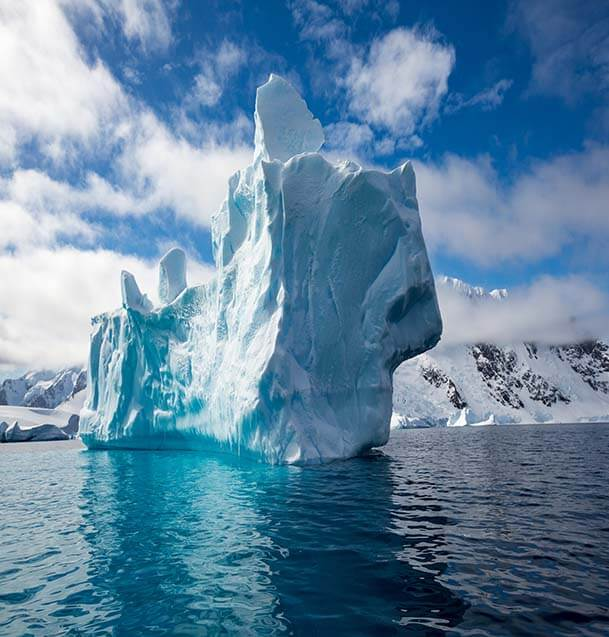
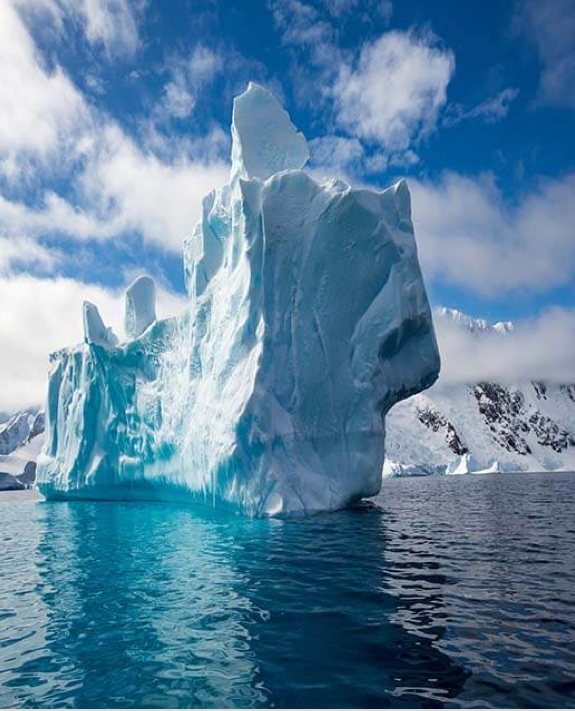
Tried to add media

diff --git a/deploy/css/styles.css b/deploy/css/styles.css
@@ -370,8 +370,7 @@ header {
   color: #00487C;
   text-align: left; }
   header img {
-    width: 1025px;
-    height: 679px; }
+    width: 100%; }
 
 /* =============
     Footer
@@ -388,18 +387,55 @@ footer {
 /* =============
     Section 1
 ============= */
-#section-1 img {
-  width: 491px;
-  height: 737px; }
-
-#section-1 > section {
-  color: #000;
-  text-align: right; }
-  #section-1 > section > hr {
-    color: #007ADF; }
-
-#section-1 > hr {
-  color: #007ADF; }
+#section-1 {
+  display: grid;
+  grid-template-columns: 10px auto 10px;
+  grid-template-rows: 25% 100px auto;
+  grid-template-areas: ". section-2 ."; }
+  #section-1 > aside {
+    grid-area: section-2;
+    text-align: center; }
+    @media (min-width: 768px) {
+      #section-1 > aside #section-2-first {
+        display: grid;
+        grid-template-columns: 20% auto 20%;
+        grid-template-areas: ". section-2-first ."; } }
+    @media (min-width: 768px) {
+      #section-1 > aside #section-2-first > div {
+        grid-area: section-2-first; } }
+    @media (min-width: 992px) {
+      #section-1 > aside #section-2-middle {
+        display: grid;
+        grid-template-columns: 20% auto 20%;
+        grid-template-areas: ". section-2-middle ."; } }
+    @media (min-width: 992px) {
+      #section-1 > aside #section-2-middle > div {
+        grid-area: section-2-middle; } }
+    @media (min-width: 768px) {
+      #section-1 > aside #section-2-last {
+        display: grid;
+        grid-template-columns: 10% auto 10%;
+        grid-template-areas: ". section-2-last ."; } }
+    @media (min-width: 992px) {
+      #section-1 > aside #section-2-last {
+        grid-template-columns: 25% auto 25%; } }
+    @media (min-width: 768px) {
+      #section-1 > aside #section-2-last > div {
+        grid-area: section-2-last; } }
+  #section-1 img {
+    width: 491px;
+    height: 737px; }
+  #section-1 > section {
+    color: #000;
+    text-align: right;
+    grid-column-start: 1;
+    grid-column-end: span 10;
+    grid-row-start: 2;
+    grid-row-end: span 2; }
+    #section-1 > section > hr {
+      color: #007ADF; }
+    #section-1 > section > hr {
+      color: #007ADF; }
 
 /* =============
     Section 2
@@ -409,9 +445,41 @@ footer {
   grid-template-columns: 10px auto 10px;
   grid-template-rows: 25% 100px auto;
   grid-template-areas: ". section-2 ."; }
+  @media (min-width: 1200px) {
+    #section-2 {
+      grid-template-columns: auto 1200px auto; } }
+  #section-2 > article {
+    grid-area: section-2;
+    text-align: center; }
+    @media (min-width: 768px) {
+      #section-2 > article #section-2-first {
+        display: grid;
+        grid-template-columns: 20% auto 20%;
+        grid-template-areas: ". section-2-first ."; } }
+    @media (min-width: 768px) {
+      #section-2 > article #section-2-first > div {
+        grid-area: section-2-first; } }
+    @media (min-width: 992px) {
+      #section-2 > article #section-2-middle {
+        display: grid;
+        grid-template-columns: 20% auto 20%;
+        grid-template-areas: ". section-2-middle ."; } }
+    @media (min-width: 992px) {
+      #section-2 > article #section-2-middle > div {
+        grid-area: section-2-middle; } }
+    @media (min-width: 768px) {
+      #section-2 > article #section-2-last {
+        display: grid;
+        grid-template-columns: 10% auto 10%;
+        grid-template-areas: ". section-2-last ."; } }
+    @media (min-width: 992px) {
+      #section-2 > article #section-2-last {
+        grid-template-columns: 25% auto 25%; } }
+    @media (min-width: 768px) {
+      #section-2 > article #section-2-last > div {
+        grid-area: section-2-last; } }
   #section-2 img {
-    width: 1024px;
-    height: 685px; }
+    height: 100%; }
   #section-2 > aside {
     color: #000;
     text-align: center;
@@ -436,7 +504,12 @@ footer {
     grid-area: section-3;
     display: grid;
     grid-gap: 20px; }
-
+    @media (min-width: 768px) {
+      #section-3 ul {
+        grid-template-columns: repeat(2, 1fr); } }
+    @media (min-width: 768px) {
+      #section-3 ul {
+        grid-template-columns: repeat(3, 1fr); } }
 /* =============
     section 4
 ============= */

diff --git a/dev/scss/sections/_section-1.scss b/dev/scss/sections/_section-1.scss
@@ -2,20 +2,78 @@
     Section 1
 ============= */
 #section-1{
+    display: grid;
+    grid-template-columns: 10px auto 10px;
+    grid-template-rows: 25% 100px auto;
+    grid-template-areas: ". section-2 .";
+    
+    >aside {
+        grid-area: section-2;
+        text-align: center;
+
+        #section-2-first{
+            @include md{
+                display: grid;
+                grid-template-columns: 20% auto 20%;
+                grid-template-areas: ". section-2-first .";
+            }
+
+            >div {
+                @include md{
+                    grid-area: section-2-first;
+                }
+               
+            }
+        }
+
+        #section-2-middle{
+            @include lg{
+                display: grid;
+                grid-template-columns: 20% auto 20%;
+                grid-template-areas: ". section-2-middle .";
+            }
+            >div {
+                @include lg{
+                    grid-area: section-2-middle;
+                }
+            }
+        }
+        #section-2-last {
+            @include md{
+                display: grid;
+                grid-template-columns: 10% auto 10%;
+                grid-template-areas: ". section-2-last .";
+            }
+            @include lg{
+                grid-template-columns: 25% auto 25%;
+            }
+
+            >div {
+                @include md{
+                    grid-area: section-2-last;
+                }
+            }
+        }
+
+    }
 
     img{
         width: 491px;
         height: 737px;
     }
     >section {
-        color: $black;
-        text-align: right;
         >hr{
             color: $light-blue;
         }
-    }
-    >hr{
-        color: $light-blue;
+        color: $black;
+        text-align: right;
+        grid-column-start: 1;
+        grid-column-end: span 10;
+        grid-row-start: 2;
+        grid-row-end: span 2;
+        >hr{
+            color: $light-blue;
+        }
     }
 }
   

diff --git a/dev/scss/sections/_section-2.scss b/dev/scss/sections/_section-2.scss
@@ -7,10 +7,59 @@
     grid-template-rows: 25% 100px auto;
     grid-template-areas: ". section-2 .";
 
-    img{
-        width: 1024px;
-        height: 685px;
+    @include xl{
+        grid-template-columns: auto 1200px auto;
+    }
 
+    >article {
+        grid-area: section-2;
+        text-align: center;
+
+        #section-2-first{
+            @include md{
+                display: grid;
+                grid-template-columns: 20% auto 20%;
+                grid-template-areas: ". section-2-first .";
+            }
+
+            >div {
+                @include md{
+                    grid-area: section-2-first;
+                }
+            }
+        }
+
+        #section-2-middle{
+            @include lg{
+                display: grid;
+                grid-template-columns: 20% auto 20%;
+                grid-template-areas: ". section-2-middle .";
+            }
+            >div {
+                @include lg {
+                    grid-area: section-2-middle;
+                }
+            }
+        }
+        #section-2-last{
+            @include md{
+                display: grid;
+                grid-template-columns: 10% auto 10%;
+                grid-template-areas: ". section-2-last .";
+            }
+            @include lg{
+                grid-template-columns: 25% auto 25%;
+            }
+
+            >div {
+                @include md{
+                    grid-area: section-2-last;
+                }
+            }
+        }
+    }
+    img{
+        height: 100%;
 
     }
     >aside{

diff --git a/dev/scss/sections/_section-3.scss b/dev/scss/sections/_section-3.scss
@@ -11,6 +11,15 @@
         grid-area: section-3;
         display: grid;
         grid-gap: 20px;
+
+        @include md {
+            grid-template-columns: repeat(2, 1fr);
+        }
+
+        @include md {
+            grid-template-columns: repeat(3, 1fr);
+        }
+
     }
     
 }

diff --git a/dev/scss/layout/_header.scss b/dev/scss/layout/_header.scss
@@ -5,7 +5,6 @@ header{
     color: $blue;
     text-align: left;
     img{
-        width: 1025px;
-        height: 679px;
+        width: 100%;
     }
 }
